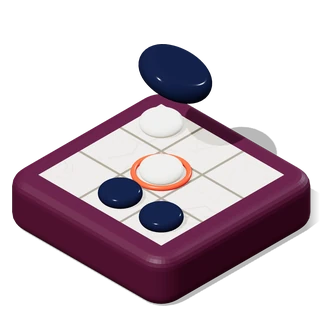
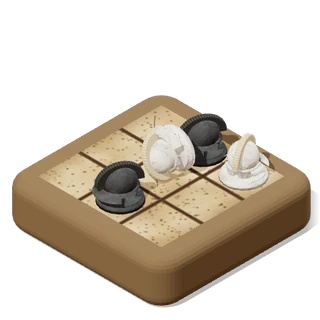
ラトルンクロルム：アイコン（トップ・大百科）とSSを3D盤の既定（発掘された石板×石の兜）で作り直し
Claude-Session: https://claude.ai/code/session_01EiWRAVpHBixHi279KdKnET

diff --git a/atlas/icons3d.js b/atlas/icons3d.js
@@ -452,20 +452,25 @@
       for (let i = 0; i < 6; i++) { const t = (i + .5) / 6, d = ball(.085, dotM); d.position.set(p(0) + (p(2) - p(0)) * t, .7 + Math.sin(t * Math.PI) * 1.35, p(1)); g.add(d); }
       return g;
     },
-    latrunculi() {   // a corner of the white marble board (the 3D default): glass counters — a white one enclosed between two dark ones, a big dark counter coming down to close the line
-      const top = M({ map: X.canvasTex('iclt1', 512, 512, (c, W) => {
-        c.fillStyle = '#ece7dc'; c.fillRect(0, 0, W, W);
-        let sd = 11; const r = () => (sd = (sd * 16807) % 2147483647) / 2147483647;
-        for (let k = 0; k < 26; k++) { c.strokeStyle = `rgba(${r() < .5 ? '150,144,136' : '196,186,170'},${.18 + r() * .22})`; c.lineWidth = 1 + r() * 5; c.beginPath(); let x = r() * W, y = r() * W; c.moveTo(x, y); for (let i = 0; i < 6; i++) { x += (r() - .3) * 130; y += (r() - .5) * 110; c.lineTo(x, y); } c.stroke(); }   // veins
-        c.strokeStyle = '#7d756a'; c.lineWidth = 9; const st = W / 3; for (let i = 1; i < 3; i++) { c.beginPath(); c.moveTo(i * st, 0); c.lineTo(i * st, W); c.stroke(); c.beginPath(); c.moveTo(0, i * st); c.lineTo(W, i * st); c.stroke(); }
-      }), roughness: .28 });
-      const g = boardChunk(3, 3.6, top, C(0x4e1c38, { roughness: .55 }));   // the theme's Tyrian purple, darkened like stained wood
-      const S = 3.1 / 3, p = i => -1.55 + S * (i + .5);
-      const dark = C(0x1c2540, { roughness: .08 }), light = C(0xf4f6f0, { roughness: .1 });
-      const cnt = (m, sc) => { const o = new T.Group(); o.add(puck(.5, .3, m, .5)); o.scale.setScalar(sc); return o; };
-      g.add(at(cnt(dark, .8), p(0), .5, p(1))); g.add(at(cnt(light, .8), p(1), .5, p(1))); g.add(at(cnt(light, .8), p(2), .5, p(0))); g.add(at(cnt(dark, .8), p(0), .5, p(2)));
-      const ring = mesh(new T.TorusGeometry(.5, .05, 10, 44), gloss(0xe0452c)); ring.rotation.x = Math.PI / 2; g.add(at(ring, p(1), .56, p(1), Math.PI / 2));   // the enclosed counter
-      g.add(at(cnt(dark, 1.4), p(2) - .45, 2.05, p(1) - .35, .3, 0, -.3));   // coming down on the empty square right of the white one
+    latrunculi() {   // (2026-11-19: the 3D default — the excavated stone slab and the stone helmets) a corner of the weathered slab, its grid
+      // cut in; a white helmet enclosed between two black ones lies toppled, another white one stands by (the real 3D pieces,
+      // atlas/models/latrunculi.js, scaled up)
+      const top = M({ map: X.canvasTex('iclt2', 512, 512, (c, W) => {
+        let sd = 7; const r = () => (sd = (sd * 16807) % 2147483647) / 2147483647;
+        c.fillStyle = '#a88a5e'; c.fillRect(0, 0, W, W);
+        for (let k = 0; k < 60; k++) { const x = r() * W, y = r() * W, rr = 20 + r() * 90, g = c.createRadialGradient(x, y, 0, x, y, rr), col = r() < .55 ? '120,92,58' : '226,206,168'; g.addColorStop(0, `rgba(${col},${.18 + r() * .2})`); g.addColorStop(1, `rgba(${col},0)`); c.fillStyle = g; c.fillRect(x - rr, y - rr, 2 * rr, 2 * rr); }
+        for (let k = 0; k < 500; k++) { c.fillStyle = `rgba(70,50,30,${.25 + r() * .45})`; const x = r() * W, y = r() * W, s = 1.5 + r() * 4; c.beginPath(); c.arc(x, y, s, 0, 7); c.fill(); }
+        const st = W / 3; c.lineCap = 'round';
+        for (let i = 1; i < 3; i++) for (const [lw, col] of [[16, 'rgba(70,48,26,.9)'], [6, 'rgba(42,28,14,.95)']]) { c.strokeStyle = col; c.lineWidth = lw; c.beginPath(); c.moveTo(i * st + (r() - .5) * 4, 0); c.lineTo(i * st, W); c.stroke(); c.beginPath(); c.moveTo(0, i * st); c.lineTo(W, i * st + (r() - .5) * 4); c.stroke(); }
+        c.strokeStyle = 'rgba(50,34,20,.8)'; c.lineWidth = 3; c.beginPath(); let x = W * .9, y = W * .05; c.moveTo(x, y); for (let i = 0; i < 14; i++) { x -= 10 + r() * 14; y += 8 + r() * 16; c.lineTo(x, y); } c.stroke();
+        const e = c.createLinearGradient(0, 0, 0, W); e.addColorStop(0, 'rgba(70,48,26,.35)'); e.addColorStop(.12, 'rgba(70,48,26,0)'); e.addColorStop(.88, 'rgba(70,48,26,0)'); e.addColorStop(1, 'rgba(70,48,26,.35)'); c.fillStyle = e; c.fillRect(0, 0, W, W);
+      }), roughness: .92 });
+      const side = C(0x6b553a, { roughness: .95 });   // weathered limestone, dark with soil
+      const g = boardChunk(3, 3.6, top, side);
+      const S = 3.1 / 3, p = i => -1.55 + S * (i + .5), L = X.latrunculi, k = 1.45;
+      const helm = (col, inc) => { const o = L.piece(col, 'helm'); if (inc) L.turn(o, 1); o.scale.setScalar(k); return o; };
+      g.add(at(helm(1), p(0), .5, p(1))); g.add(at(helm(2, true), p(1), .5, p(1))); g.add(at(helm(1), p(2), .5, p(1)));
+      g.add(at(helm(2), p(2), .5, p(2)));
       return g;
     },
     foxgeese() {   // (2026-11-19: the meadow board and the cute pieces, the 2D / 3D defaults) the middle of the cross: a sunny grass board with cream paths and white stones, a round fox leaping over a round goose, two more geese waiting

diff --git a/index.html b/index.html
@@ -949,7 +949,7 @@ const GAMES = [
   { id:'foxgeese',   href:'./foxgeese/',      thumb:'images/foxgeese.webp?v=4',       icon:'images/icons/foxgeese.svg?v=3',       cat:'hist', also:['chess'], kind:'BOARD GAME', key:'fg',   isNew:true,  tags:['historical','ai','rated','daily','lessons','puzzles','variants','mobile'], facts:{ ai:20, lessons:6, puzzles:250, players:'1–2' } },
   { id:'konane',     href:'./konane/',        thumb:'images/konane.webp?v=3',      icon:'images/icons/konane.svg?v=2',      cat:'hist', also:['chess'], kind:'BOARD GAME', key:'kn',   isNew:true,  tags:['historical','ai','online','rated','daily','lessons','puzzles','variants','mobile'], facts:{ ai:20, lessons:9, puzzles:226, players:'1–2' } },
   { id:'agon',       href:'./agon/',          thumb:'images/agon.webp?v=1',        icon:'images/icons/agon.svg?v=2',        cat:'chess',     kind:'BOARD GAME', key:'ag',   isNew:true,  tags:['classic','ai','online','rated','daily','lessons','puzzles','openings','variants','mobile'], facts:{ ai:20, lessons:12, puzzles:152, players:'1–2' } },
-  { id:'latrunculi', href:'./latrunculi/',    thumb:'images/latrunculi.webp',     icon:'images/icons/latrunculi.svg',     cat:'hist', also:['chess'], kind:'BOARD GAME', key:'lt',   isNew:true, alpha:true,  tags:['historical','ai','rated','daily','lessons','puzzles','variants','mobile'], facts:{ ai:20, lessons:7, puzzles:250, players:'1–2' } },
+  { id:'latrunculi', href:'./latrunculi/',    thumb:'images/latrunculi.webp?v=2',     icon:'images/icons/latrunculi.svg?v=2',     cat:'hist', also:['chess'], kind:'BOARD GAME', key:'lt',   isNew:true, alpha:true,  tags:['historical','ai','rated','daily','lessons','puzzles','variants','mobile'], facts:{ ai:20, lessons:7, puzzles:250, players:'1–2' } },
   { id:'sudoku',     href:'./sudoku/',        thumb:'images/sudoku.webp?v=2', icon:'images/icons/sudoku.svg?v=2', cat:'puzzle', kind:'PUZZLE', key:'sd', isNew:true, tags:['daily','puzzles','netrank','mobile'], facts:{ puzzles:1300, players:'1' } },
   { id:'speed-sudoku', href:'./speed-sudoku/', thumb:'images/speed-sudoku.webp', icon:'images/icons/speed-sudoku.svg', cat:'puzzle', kind:'PUZZLE', key:'ss', isNew:true, tags:['original','daily','puzzles','variants','netrank','mobile'], facts:{ puzzles:500, players:'1' } },
   { id:'samegame',   href:'./samegame/',      thumb:'images/samegame.webp?v=4', icon:'images/icons/samegame.svg?v=3', cat:'puzzle', kind:'PUZZLE', key:'sg', isNew:true, tags:['original','daily','puzzles','variants','netrank','mobile'], facts:{ puzzles:750, players:'1' } },

diff --git a/atlas/app.js b/atlas/app.js
@@ -200,7 +200,7 @@
 
   /* ---------- common renderers ---------- */
   const R3 = new Set(['peg', 'reversi', 'shogi', 'chess', 'gomoku', 'dots', 'connect4', 'mancala', 'backgammon', 'morris', 'sudoku', 'speedsudoku', 'checkers', 'samegame', 'go', 'hex', 'tafl', 'xiangqi', 'jailbreak', 'solitaire', 'poker', 'baccarat', 'blackjack', 'fanorona', 'alquerque', 'ur', 'ugolki', 'agon', 'konane', 'senet', 'janggi', 'ludo', 'carrom', 'crokinole', 'hockey', 'botao', 'hitblow', 'amazons', 'shanghai', 'latrunculi', 'foxgeese', 'patolli']);   // images/atlas/<id>.webp exists
-  const artSrc = g => R3.has(g.id) ? `../images/atlas/${g.id}.webp?v=${g.id === 'hitblow' ? 13 : g.id === 'foxgeese' ? 13 : g.id === 'latrunculi' || g.id === 'patolli' ? 12 : g.id === 'fanorona' || g.id === 'janggi' || g.id === 'morris' || g.id === 'peg' || g.id === 'shanghai' ? 11 : 10}` : `../${g.icon}`;
+  const artSrc = g => R3.has(g.id) ? `../images/atlas/${g.id}.webp?v=${g.id === 'hitblow' ? 13 : g.id === 'foxgeese' ? 13 : g.id === 'latrunculi' ? 13 : g.id === 'patolli' ? 12 : g.id === 'fanorona' || g.id === 'janggi' || g.id === 'morris' || g.id === 'peg' || g.id === 'shanghai' ? 11 : 10}` : `../${g.icon}`;
   const artImg = (g, extra = '') => `<img src="${artSrc(g)}" alt="" loading="lazy" decoding="async"${R3.has(g.id) ? '' : ' class="flat"'}${extra}>`;
   const g3 = g => `<span class="g3" style="--c:${g.color}">${artImg(g)}</span>`;
   const gno = g => 'No.' + String(A_.GAMES.indexOf(g) + 1).padStart(2, '0');

diff --git a/atlas/gamelist.js b/atlas/gamelist.js
@@ -5,7 +5,7 @@
   'use strict';
   const SHOTS = new Set(['shogi', 'chess', 'checkers', 'ugolki', 'fanorona', 'alquerque', 'xiangqi', 'janggi', 'tafl', 'reversi', 'go', 'gomoku', 'dots', 'connect4', 'morris', 'hex',
     'mancala', 'backgammon', 'sudoku', 'speedsudoku', 'samegame', 'jailbreak', 'poker', 'baccarat', 'blackjack', 'solitaire', 'ur', 'agon', 'konane', 'senet', 'ludo', 'carrom', 'crokinole', 'hockey', 'botao', 'amazons', 'peg', 'shanghai', 'latrunculi', 'foxgeese', 'patolli']);
-  const SHOT_V = 33;                                   // bump after regenerating the thumbnails
+  const SHOT_V = 34;                                   // bump after regenerating the thumbnails
   const FX = ['ai', 'online', 'lessons', 'puzzles'];  // the feature icons shown on a card (labels come from the tag.* strings)
 
   const IC = {   // small line icons for the footer buttons

diff --git a/atlas/index.html b/atlas/index.html
@@ -2367,12 +2367,12 @@ window.AtlasRgdTimer = function (btn, ms, alive) {
 .rsg-ov.draw .rsg-flag{color:#b8862a!important}</style>
 <script src="../shared/resign.js?v=3"></script><script src="../shared/drawoffer.js?v=1"></script>
 <script src="../shared/tick.js?v=2"></script>
-<script src="gamelist.js?v=47"></script>
+<script src="gamelist.js?v=48"></script>
 <link rel="stylesheet" href="worldmap.css?v=18">
 <script src="worldmap.js?v=40"></script>
 <script src="npc/npc.js?v=44"></script>
 <script src="avtalk.js?v=4"></script>
-<script src="app.js?v=456"></script>
+<script src="app.js?v=457"></script>
 <script src="../shared/praline-badge.js?v=8" data-portal defer></script>
 </body>
 </html>

diff --git a/atlas/tools/icons.html b/atlas/tools/icons.html
@@ -11,6 +11,7 @@
 <script src="../img/tex/baked.js?v=3"></script>
 <script src="../table3d.js"></script>
 <script src="../models/shanghai.js"></script>
+<script src="../models/latrunculi.js"></script>
 <script src="../icons3d.js"></script>
 <script src="../avatars3d.js"></script>
 <script src="../avatars/sp-games.js"></script>
